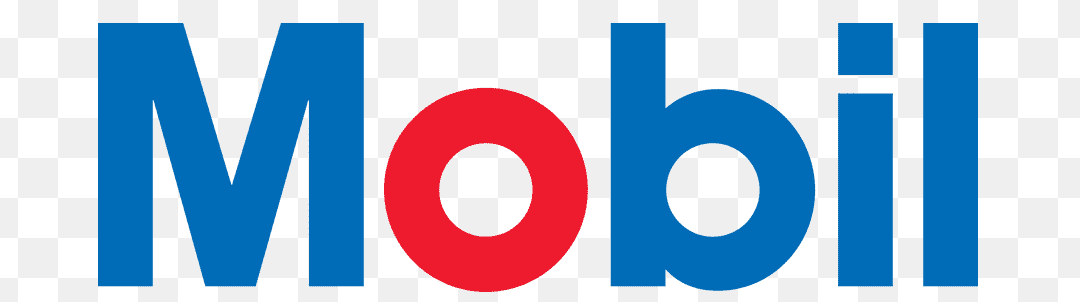
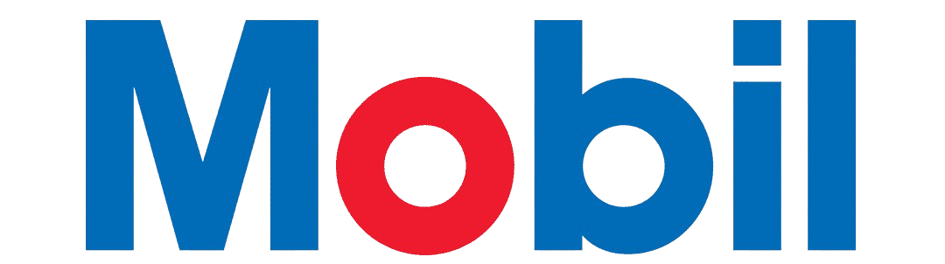
removendo fundo de imagens

Changed region(s): [[0.4296, 0.9394, 0.4603, 0.9697]]

diff --git a/src/components/Cards/index.jsx b/src/components/Cards/index.jsx
@@ -6,8 +6,8 @@ import styles from './Cards.module.css'
 
 const Cards = () => {
   return (
-    <div className="pb-4">
-      <h2 className="text-center py-4">Tudo que sua moto precisa!</h2>
+    <div className="pb-4 mt-4">
+      <h2 className="text-center py-3">Tudo que sua moto precisa!</h2>
       <section className={`${styles.cards} ${`px-15`}`}>
         <article className="flex flex-direction-column justify-space-between">
           <div>
